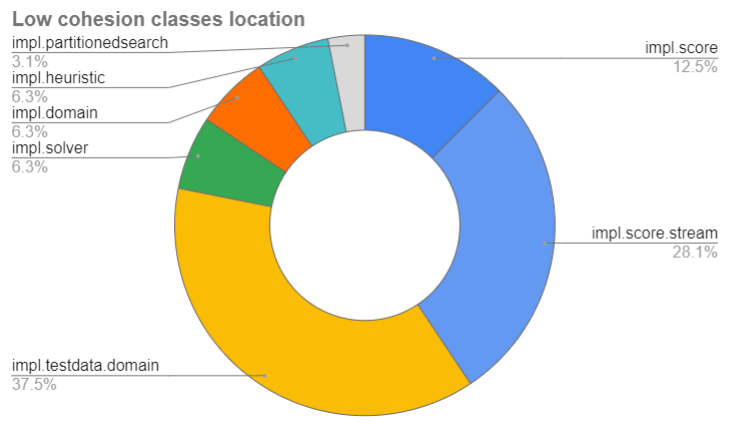
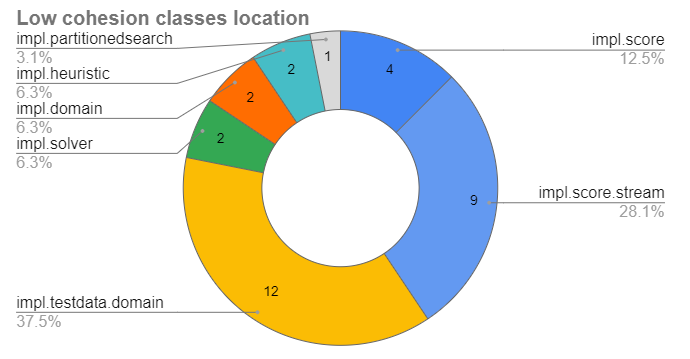
Final version of the Maintanance report of OptaPlanner

diff --git a/steps/step3.tex b/steps/step3.tex
@@ -60,8 +60,14 @@ $ mvn sonar:sonar
                         The difference in size between those three packages was to be expected, since the biggest folder contains all the implementation details of the algorithms, while the other two are only concerned with the interfaces to the implementation.\\
                         In this package, the file with the most LOCs has 1048, and can be found at: \\ 
                         \cb{core/impl/domain/solution/descriptor/SolutionDescriptor.java}. \\
-                        This number is very high, making this a very long class compared to the rest of the project, where most files have under 200 LOCs.
-                        
+                        This number is very high, making this a very long class compared to the rest of the project, where most files have under 200 LOCs.\\\\
+                        An overview of the LOC in the \cb{core} folder can be seen in Figure \ref{fig:loccore}
+                        \begin{figure}[H]
+                            \centering
+                            \includegraphics[scale=0.6]{figures/step3/locfiles.PNG}
+                            \caption{LOC in \cb{core}}
+                            \label{fig:loccore}
+                        \end{figure}
                         \item[-] The second biggest package is 
                         \cb{optaplanner-examples} with 41,450 LOCs; out of the 22 examples, the Conference Scheduling
                         \footnote{\url{https://docs.optaplanner.org/7.32.0.Final/optaplanner-docs/html\_single/index.html\#conferenceScheduling}}
@@ -81,7 +87,6 @@ $ mvn sonar:sonar
                     The most classes are contained in the same package, with a total of 861, with the \cb{impl} folder containing 674, \cb{api} with 116 and \cb{config} with 71. \\
                     Most of the files in the project contain one class, indicating a good design since having too many classes declared in a single file could be a potential code smell (more about this later on). However, one folder stood out where most files contained 2 or 3 classes. In the following folder
                     \\ \cb{core/impl/domain/valuerange/buildin/composite/}, most files contain more than one class. This is due to the fact that the developers needed a way to enrich the basic types in Java with extra information, and created their own Object types from the standard ones. 
-                    \textcolor{red}{TODO maybe add a graph for this folder}
                     \\ For example, the file \cb{core/impl/domain/valuerange/buildin/primint/IntValueRange.java} contains three classes used to iterate through the elements in a specific interval of integer values. 
                 \item \textbf{Comment lines}\\
                     The \cb{optaplanner-core} package contains 8,007 comment lines, taking up 13.2\% of the total size of the code. Unlike the other metrics mentioned above, the component with the most comments is the \cb{api} one, with 4,303, followed by \cb{impl}. This is due to the fact that the APIs are the interfaces that connect the implementation of the software with the 'outside world'. They are the point of communication for the other developers, and as such, need to be properly explained and documented so that they can be understood by the developers who do not know about the inner workings of the system. Having well documented and commented APIs is a great advantage and helps a lot with our key drivers of Maintainability and Integrability, since they allow the system to be easily used, maintained and integrated without having to first study the code or the implementation that lies within.
@@ -89,7 +94,6 @@ $ mvn sonar:sonar
             From the size analysis, it is quite clear that the biggest folder is \cb{optaplanner-core/impl}, which contains the most LOC, most functions and statements and the most files. This was to be expected, since this folder contains the implementation details of the software, thus the implementation of the algorithms that are the foundation of the project. The fact that the developers have implemented these complex algorithms themselves explains the big size of the folder; moreover, they focused also on optimization and performance, so the algorithms can be tweaked and adapted to a high number of situations. As such, a lot of work in terms of LOC needed to be done to achieve this.
         
         \subsubsection{Complexity}
-            \textcolor{red}{TODO: Graph}
             SonarQube can, according to the documentation, analyse two types of complexity metrics: 
             \begin{itemize}
                 \item \textbf{Cyclomatic complexity} \\
@@ -97,9 +101,23 @@ $ mvn sonar:sonar
                 By further exploring the package, we have come across the following scores:
                 \begin{itemize}
                     \item[-] The \cb{impl} folder is the most complex, with a score of almost 7000. Again, this is expected, since this component is the biggest and the most important for the project. 
-                    \item[-] The complexity of the other two packages is 1483 for \cb{api} and 1855 for \cb{config}. 
+                    \item[-] The complexity of the other two packages is 1483 for \cb{api} and 1855 for \cb{config}.\\
+                    An overview of the three folders together with their complexities can be seen in Figure \ref{fig:corecyclomatic}
+                    \begin{figure}[H]
+                        \centering
+                        \includegraphics{figures/step3/cyclomaticcomplexitycore.PNG}
+                        \caption{Total cyclomatic complexity of the folders in \cb{core}}
+                        \label{fig:corecyclomatic}
+                    \end{figure}
                     \item[-] In the \cb{impl} folder, the package with the highest complexity is \cb{score}, with a complexity of 2801. This component helps give a score (weight) to a computed solution, and the complexity of this task comes from the big number of constraints that need to be satisfied when solving a problem, and how well the solution fits the constraints. At the same time, the score needs to keep track at all times of the domain of the problem, the heuristics, the type of search that is being used, and so on. In order to do this, it makes use of other components to compute the score, making it highly complex.
                     \item[-] The next two most complex folders are \cb{heuristic} - 1566 and \cb{domain} - 1382. These two are components that the algorithms need in order to find an optimal solution, and they hold the information that is fed into the algorithms, as well as the details about how the algorithms should behave (what kind of search heuristic should be used, for example). Since these two components are crucial to the software, it was expected that they were also fairly complex. 
+                    \item An overview of the components inside the \cb{core.impl} folder and their complexities can be seen in Figure
+                    \begin{figure}[H]
+                        \centering
+                        \includegraphics{figures/step3/cyclomaticcomplexityimpl.PNG}
+                        \caption{Total cyclomatic complexity of the folders in \cb{core.impl}}
+                        \label{fig:my_label}
+                    \end{figure}
                 \end{itemize}
                 
                 \item \textbf{Cognitive complexity}\\
@@ -110,7 +128,23 @@ $ mvn sonar:sonar
                     
                     \item[-] The \cb{api} folder has a given complexity score of 608, the lowest of the three. This is also a good sign, since, mentioned before, this folder contains the interfaces that other parties can use in order to interact with the software. It should be as simple and as intuitive as possible, well documented and commented, to make the reuse of the other underlying code as easy and as fast as possible. The low complexity of these files could also positively influence maintainability. 
                     
+                    \item[-] An overview of the complexity of the three folders can be seen in Figure \ref{fig:cognitivecomplexitycore}
+                    \begin{figure}[H]
+                        \centering
+                        \includegraphics[scale=0.8]{figures/step3/cognitivcomplexitycore.PNG}
+                        \caption{Cognitive complexity in \cb{core}}
+                        \label{fig:cognitivecomplexitycore}
+                    \end{figure}
+                    
                     \item[-] Inside the \cb{impl} folder, the most complex components are \cb{domain}, \cb{heuristic} and \cb{score}. These are the same folders that also had a high cyclomatic complexity, and it was to be expected that they were also the most cognitively complex, with a score of around 1000 each. The same reasoning as before can be applied for this complexity as well.
+                    
+                    \item[-] An overview of the components inside the \cb{core.impl} folder can be seen in Figure \ref{cognitivecomplexityimpl}
+                    \begin{figure}[H]
+                        \centering
+                        \includegraphics[scale=0.8]{figures/step3/cognitivecomplexityimpl.PNG}
+                        \caption{Cognitive complexity in \cb{core.impl}}
+                        \label{fig:cognitivecomplexityimpl}
+                    \end{figure}
                      
                 \end{itemize}
                 
@@ -134,7 +168,6 @@ $ mvn sonar:sonar
             \end{figure}
             
             From the figure, we find the following: 
-            \textcolor{red}{TODO: Maybe explain this a bit more he wants to see this}
             \begin{itemize}
                 \item[-] There is a high number of duplicated LOC in two big files. They both have 169 duplicated LOC contained in 6 blocks. Those two classes are: 
                 \begin{enumerate}
@@ -151,11 +184,23 @@ $ mvn sonar:sonar
             However, the project that we chose has a rather low number of duplicated lines, given its size and the complexity.
          
         \subsubsection{Code Smells}
-            \textcolor{red}{TODO: Graphs}\\
             By definition, code smells are characteristics of the code that could possibly indicate a deeper problem. Sometimes, the smells can be rather superficial and only surface issues, such as a variable not following the given naming convention. But other times, code smells can also indicate deeper issues, such as classes that are overly complex or are badly designed. As such, finding these code smells, analysing them and trying to solve them is a good way to ensure that the code is more maintainable and, by solving them early, we could prevent them from evolving into actual bugs. 
             \\ \\
-            According to SonarQube, the project has 3,420 total smells, out of which 2,313 are in the \cb{optaplanner-core} package. In total, the accumulated debt of the project is 96 days (meaning that it would take one developer 96 days to fix all of the code smells). However, the debt ratio is very low - only 1.5\%, and because of this, the rating of the project with regards to Maintainability is A.\\
-            We expected that, in the \cb{core} package, the \cb{impl} folder should have the most code smells, due to the nature of the code inside this folder, as well as the complexity which we have discussed previously. And indeed, the folder has 1532 code smells, three times as much as each of the other two folders. \\\\
+            According to SonarQube, the project has 3,420 total smells, out of which 2,313 are in the \cb{optaplanner-core} package. In total, the accumulated debt of the project is 96 days (meaning that it would take one developer 96 days to fix all of the code smells). However, the debt ratio is very low - only 1.5\%, and because of this, the rating of the project with regards to Maintainability is A. An overview of the distribution of the code smells in the \cb{core} package's three main folders can be seen in Figure \ref{fig:numberofcodesmells}.
+            \begin{figure}[H]
+                \centering
+                \includegraphics{figures/step4/step4.2/numberofcodesmells.PNG}
+                \caption{Distribution of code smells in the \cb{core} package}
+                \label{fig:numberofcodesmells}
+            \end{figure}
+            We expected that, in the \cb{core} package, the \cb{impl} folder should have the most code smells, due to the nature of the code inside this folder, as well as the complexity which we have discussed previously. And indeed, the folder has 1532 code smells, three times as much as each of the other two folders. 
+            An overview of the distribution of code smells inside the \cb{core.impl} folder can be seen in Figure \ref{fig:codesmellimpl}.
+            \begin{figure}[H]
+                \centering
+                \includegraphics[scale=0.8]{figures/step4/codesmellsimpl.PNG}
+                \caption{Caption}
+                \label{fig:codesmellimpl}
+            \end{figure}
             When analysing the code smells and further investigating what they are and where they occur, we have found the following: 
             \begin{itemize}
                 \item The first smell that we have come across was the fact that a generic variable contained an unexpected character. When looking through the project, we observed that the developers hold a certain convention when typing generics, namely using the character \cb{$\_$} at the end of a variable, like so: \cb{variable$\_$}. This has been picked up by SonarQube as a code smell, and it is quite present everywhere in the project where generics are declared or used. Figure \ref{fig:smell4} gives an example of such an occurrence: 
@@ -201,6 +246,41 @@ $ mvn sonar:sonar
                     \label{fig:smell5}
                 \end{figure}
             \end{itemize}
+            
+        \subsubsection{Bugs}
+            Despite the high number of code smells in the codebase, we have found that there are very few bugs for a project of this size. In total, the project only has 46 bugs.
+            \begin{enumerate}
+                \item \textbf{Critical bugs}\\
+                In the whole project there was only one critical bug - a division by 0 which was not entirely checked. The tool was very good in capturing this bug. The piece of code responsible can be seen in Figure \ref{fig:criticalbug}. The estimated time required to solve this bug is approximately 5 minutes - so the developers should have this as a very high priority on the TODO list.
+                \begin{figure}[H]
+                    \centering
+                    \includegraphics[scale=0.8]{figures/criticalbug.JPG}
+                    \caption{The only critical bug found in the whole project.}
+                    \label{fig:criticalbug}
+                \end{figure}
+                
+                \item \textbf{Major bugs}\\
+                In total, there were 13 major bugs in the project. Six of them can be found in the class: \cb{core/api/score/stream/Joiners.java}, and they are all concerned with the same bug: the developers gave a method a reserved name without mentioning if it is an override - and this can cause unexpected behavior. An example of such an occurrence can be seen in Figure \ref{fig:majorbug}. The rest of the major bugs were of similar nature.
+                \begin{figure}[H]
+                    \centering
+                    \includegraphics[scale=0.8]{figures/majorbug.JPG}
+                    \caption{An example of a major bug}
+                    \label{fig:majorbug}
+                \end{figure}
+                
+                \item \textbf{Minor bugs}\\
+                The project had a total of 32 minor bugs. The class with the most bugs had 6, and they were all concerned with the missing typecasting of variables when performing arithmetical operations. Two such examples can be seen in Figure \ref{fig:minorbugs}.
+                \begin{figure}[H]
+                    \centering
+                    \includegraphics[scale=0.8]{figures/minorbug.JPG}
+                    \caption{Example of a minor bug}
+                    \includegraphics[scale=0.8]{figures/minorbug2.JPG}
+                    \caption{Examples of minor bug}
+                    \label{fig:minorbugs}
+                \end{figure}
+            \end{enumerate}
+            
+            As mentioned before, we believe that the severity of these bugs together with the relatively low number indicate a very good code quality and that the developers should strive to continuously maintain the project in order to adhere to the same high standards.
         
         \subsubsection{Coverage}
             According to the tool, our analysed software has 0\% coverage, meaning that there are no unit tests whatsoever and that none of the classes/modules/methods are tested. Investigating why this could happen, we have come up with the following possible reasons:

diff --git a/steps/step4subsection/step4.2.tex b/steps/step4subsection/step4.2.tex
@@ -1,23 +1,82 @@
 \subsection{Coupling between components}
-            According to the definition
-            \footnote{Coupling definition: \cb{
-            \url{https://en.wikipedia.org/wiki/Coupling\_(computer\_programming)}}}:
-            \begin{adjustwidth}{1.5cm}{}
-                \textit{coupling is the degree of interdependence between software modules; a measure of how closely connected two routines or modules are; the strength of the relationships between modules.}
-            \end{adjustwidth}
-            Tight coupling in a software system can be associated with more interdependency between components, more coordination and more information flow; on the other hand, low coupling can be associated with less interdependency, coordination and information flow. \\
-            Tightly coupled systems can have the following characteristics, often seen as disadvantages:
-            \begin{enumerate}
-                \item A change in one module can cause a ripple effect of changes in other modules 
-                \item Assembly of modules will take considerably longer time thanks to the increased interdependency between them and the high flow of information
-                \item Using a single module as a standalone might be difficult due to other modules also being needed.
-            \end{enumerate}
-            Looking at these characteristics, we can motivate the general idea that good design usually is related to loose coupling in the system.\\\\
-            In order to analyze the design quality of the system, we have to analyze the coupling between its components. As such, we will make use of two metrics, namely \texttt{FANIN} and \texttt{FANOUT}. These two metrics were borrowed from logic circuit design, and they represent the number of occurrences of a class (how many times a class is being called) and the number of classes a certain class calls in its definition. They can be used to indicate the extent to which a component is independent, as well as how much responsibility is has.\\
-            When describing packages, we can talk about two types of coupling:
-            \begin{enumerate}
-                \item \textbf{Afferent coupling AC}\\
-                The number of packages that depend upon classes in a certain package. It indicates the package's responsibility.
-                \item \textbf{Efferent coupling EC}\\
-                The number of packages that the classes in a package depend upon. It indicates the package's independence.
-            \end{enumerate}
+    According to the definition
+    \footnote{Coupling definition: \cb{
+    \url{https://en.wikipedia.org/wiki/Coupling\_(computer\_programming)}}}:
+    \begin{adjustwidth}{1.5cm}{}
+        \textit{Coupling is the degree of interdependence between software modules; a measure of how closely connected two routines or modules are; the strength of the relationships between modules.}\\
+    \end{adjustwidth}
+    Tight coupling in a software system can be associated with more interdependency between components, more coordination and more information flow; on the other hand, low coupling can be associated with less interdependency, coordination and information flow. \\
+    Tightly coupled systems can have the following characteristics, often seen as disadvantages:
+    \begin{enumerate}
+        \item A change in one module can cause a ripple effect of changes in other modules 
+        \item Assembly of modules will take considerably longer time thanks to the increased interdependency between them and the high flow of information
+        \item Using a single module as a standalone might be difficult due to other modules also being needed.
+    \end{enumerate}
+    Looking at these characteristics, we can motivate the general idea that good design usually is related to loose coupling in the system.\\\\
+    In order to analyze the design quality of the system, we have to analyze the coupling between its components. As such, we will make use of two metrics, namely \texttt{FANIN} and \texttt{FANOUT}. These two metrics were borrowed from logic circuit design, and they represent the number of occurrences of a class (how many times a class is being called) and the number of classes a certain class calls in its definition. They can be used to indicate the extent to which a component is independent, as well as how much responsibility it has. Ideally, in a low coupled system, these two metrics should be as low as possible. 
+    \\\\
+    When describing packages, we can talk about two types of coupling:
+    \begin{enumerate}
+        \item \textbf{Afferent coupling AC}\\
+        The number of packages that depend upon classes in a certain package. It indicates the package's responsibility.
+        \item \textbf{Efferent coupling EC}\\
+        The number of packages that the classes in a package depend upon. It indicates the package's independence.
+    \end{enumerate}
+    The following section will document our findings of the FANIN and FANOUT metrics on the \cb{optaplanner-core} package.
+    
+    \begin{itemize}
+        \item The \cb{api} folder\\
+        Looking at the metrics that Designite found for this folder, we found that there are two classes with a very high FANIN value: 149 and 147 - which means that there are as many classes that make use of each of them. The high FANIN value implies a very high dependence of the system on these classes, making them potential candidates for the "God element" code smell. Both of the classes have the \cb{score} as concern, and this is expected since the system's main functionality revolves around the score of the algorithms. Not only that, but 6 out of the 10 classes with the highest FANIN values are in the same package: \cb{api.score}. An overview of the 10 highest FANIN values can be seen in Figure \ref{fig:faninapi}.
+        \begin{figure}[H]
+            \includegraphics[scale=0.8]{figures/step4/step4.2/FANIN_api.PNG}
+            \caption{The classes with the highest FANIN value in the \cb{api} folder}
+            \label{fig:faninapi}
+        \end{figure}
+        When analysing the FANOUT value, we have found that in this folder, most of the files with a high FANOUT value are test files for the \cb{score} package, which is again expected considering that this package is very important for the functionality of the system. An overview of the 10 highest FANOUT values can be seen in Figure \ref{fig:fanoutapi}. The highest values were 16 and 15 - but again these can be justified by the fact that in test files, a lot of classes must be instantiated and initialized in order to perform realistic tests. 
+        \begin{figure}[H]
+            \centering
+            \includegraphics[scale=0.8]{figures/step4/step4.2/FANOUT_api.PNG}
+            \caption{The classes with the highest FANOUT value in the \cb{api} folder}
+            \label{fig:fanoutapi}
+        \end{figure}
+        
+        
+        \item The \cb{config} folder\\
+        The most dependable file in this folder is a \cb{utils} file, namely  \cb{config.util.ConfigUtils}. Since such a file contains utility specifications that are useful for the whole system, it is expected that a lot of classes rely on it and use it - in order to avoid duplicate code, and also, to have all the configurations centralised in order to keep maintainability high. \\
+        The second most dependable class is a configuration file for the solvers - this can be explained by the fact that the system has a lot of possible \cb{solver} instances that can be used with different configurations. As such, this \cb{SolverConfig} file can be used to keep the configurations centralised. \\
+        An overview of the most dependable files (highest FANIN values) can be seen in Figure \ref{fig:faninconfig}
+        \begin{figure}[H]
+            \centering
+            \includegraphics[scale=0.8]{figures/step4/step4.2/FANIN_config.PNG}
+            \caption{The classes with the highest FANIN value in the \cb{config} folder}
+            \label{fig:faninconfig}
+        \end{figure}
+        
+        FANOUT represents the responsibility of a file, so how many other files it is responsible for. In this folder, the files with the most responsibilities are configuration files for the \cb{Solver} class, or for the classes that are concerned with the configuration of the search algorithms. The high responsibilities of these classes can be due to the fact that their functionalities are the most complex and they require a lot of information in order to set them up correctly.
+        An overview of the most dependable files (highest FANOUT values) can be seen in Figure \ref{fig:fanoutconfig}
+        \begin{figure}[H]
+            \centering
+            \includegraphics[scale=0.8]{figures/step4/step4.2/FANOUT_config.PNG}
+            \caption{The classes with the highest FANOUT value in the \cb{config} folder}
+            \label{fig:fanoutconfig}
+        \end{figure}
+        
+        
+        \item The \cb{impl} folder\\
+        From the previous analyses, we know that this folder is the biggest and most complex. As such, we also expect it to be the most dependable and having a lot of responsibilities. Since there were a lot of classes with a high FANIN value, we have included the top 15 of them in our analysis, as they can be seen in Figure \ref{fig:faninimpl}. The most dependable class has a very high FANIN score, 163. It is also the class that we have previously found as the biggest, in terms of LOC and complexity. It is the \cb{SolutionDescriptor} class, and it is the most dependable file in the whole system. This high dependence on this file can be explained by the fact that the system provides a lot of ways of describing solutions to a lot of different problems, and this file has the classes that are instantiated the most. \\
+        The second dependable file is \cb{ScoreDirector}, again a very big, complex file, and it is being used to calculate the scores of the different solutions - which we expect to be the argument for the high dependency value, since this class is oftenly used with the \cb{SolutionDescriptor.} \\
+        An overview of the top 15 highest FANIN values can be seen in Figure \ref{fig:faninimpl}.
+        \begin{figure}[H]
+            \centering
+            \includegraphics[scale=0.8]{figures/step4/step4.2/FANIN_impl.PNG}
+            \caption{The classes with the highest FANIN value in the \cb{impl} folder}
+            \label{fig:faninimpl}
+        \end{figure}
+        \cb{SolutionDescriptor} was found to also be the file with the most responsibility, with a FANOUT value of 34 - meaning that it is responsible for 34 other classes. The arguments are similar to the ones mentioned above. The rest of the files with high FANOUT values in this location are again test classes, or concerned with the score of an algorithm. An overview of the top 10 highest FANOUT values can be seen in Figure \ref{fig:fanoutimpl}.
+        \begin{figure}[H]
+            \centering
+            \includegraphics[scale=0.8]{figures/step4/step4.2/FANOUT_impl.PNG}
+            \caption{The classes with the highest FANOUT value in the \cb{impl} folder}
+            \label{fig:fanoutimpl}
+        \end{figure}
+    \end{itemize}

diff --git a/steps/step4.tex b/steps/step4.tex
@@ -95,7 +95,7 @@ java -jar DesigniteJava.jar -i optaplanner -o designite-output   \end{lstlisting
                 \caption{Distribution of classes with a high LCOM score value in the \cb{optaplanner-core/impl} folder}
                 \label{fig:lowcohesion}
             \end{figure}
-            From this figure, we can see that the two locations \cb{impl.score} and \cb{impl.testdata.domain} contain the most classes that have a low cohesion (13 and 12 respectively) and should therefore be the first candidates to refactor, in order to increase the cohesion of the system. Inside these two folders, there were 8 classes whose LCOM score was 1 - meaning that they are totally non-cohesive, and that are difficult to maintain and they also add to the technical debt of the project. Outside these two locations, there were 3 other classes with an LCOM score of 1. The classes can be found at the following locations:                    \todo{mention here if these classes were already mentioned before?}
+            From this figure, we can see that the two locations \cb{impl.score} and \cb{impl.testdata.domain} contain the most classes that have a low cohesion (13 and 12 respectively) and should therefore be the first candidates to refactor, in order to increase the cohesion of the system. Inside these two folders, there were 8 classes whose LCOM score was 1 - meaning that they are totally non-cohesive, and that are difficult to maintain and they also add to the technical debt of the project. Outside these two locations, there were 3 other classes with an LCOM score of 1. The classes can be found at the following locations:              
             \begin{itemize}
                 \item \cb{org.optaplanner.core.impl.partitionedsearch.TestdataFaultyEntity.java}
                 \item \cb{org.optaplanner.core.impl.domain.common.accessor.MemberAccessorFactory.java}
@@ -174,4 +174,4 @@ java -jar DesigniteJava.jar -i optaplanner -o designite-output   \end{lstlisting
             A reason why this smell could occur is that the members of one abstractions are misplaced in a different abstraction, making the first one depend on the second and thus resulting in a cyclic dependency. Another reason could be that a class passes a self reference in a method call (for example, using \texttt{doSomething(this)}. \\\\
             The way to solve this design smell is by breaking the dependency cycle. One possible solution could be to introduce an interface for one of the abstractions in the cycle. Another possible solution would be to move the code that introduces the dependency to a different abstraction. Or, if possible, to merge the abstractions that are cyclically dependent into a single one.
         \end{itemize}
-    \subsection{Code, design and architectural smells}
+ 

diff --git a/conclusion.tex b/conclusion.tex
@@ -1,0 +1,8 @@
+\clearpage
+\section{Conclusion}
+In conclusion, this document presents our study on the software system called OptaPlanner, a constraint problem-solver, which can also be used to solve user-defined problems. Our study consisted of four steps; in step 1 we conducted a top-down introductory analysis on the software by retracting as much information as possible from the documentation guides and online information. Based on that information we compiled a list of quality attributes which we used to define some architecturally significant requirements and initial hypotheses on the architecture components of the system. \\\\
+In step 2 we focused on a more thorough analysis using the bottom-up model; we start from the code-base and work our way through the whole system. In order to gain as much insight as possible, we used software tools like the IntelliJ IDE and Structure 101. At the end of this step, we had discerned the main architectural components of the system and the entities that comprised them. We had also established several relationships between the components which we have tackled carefully in the previous sections.\\\\
+Once we established a good outlook on the software at hand, in step 3 we focused on the quality of its source code, and more specifically, the architectural components with a focus on code smells, code duplication, complexity and more. 
+The Sonarqube tool was used for this purpose.\\\\
+Finally, in step 4, we focused on the design quality of the software system and its architecture, with a special focus on the design differences among the main architectural components. More specifically, we analysed the possible design decisions that the OptaPlanner team has taken throughout its development. The tools that were used throughout this step were Structure 101 and Designite.\\\\
+At the end of this project, we have learned how to approach working with a new software system and eventually, be able to maintain it consistently. We learned that the best approach is to work incrementally, starting with a top-down model where we try to gather as much high-level information as possible, and then proceeding with the source-code. We noted that a combination of both models, top-down and bottom-up proved most helpful in analyzing the source-code. Nonetheless, we also learned that smart design decisions can prove very helpful not only in the development process of a software system but also after it has been delivered and it is ready for use. As important as it is for the end-users of the software system to work with a good product, it is as important that the system is maintained continuously. This will render the system future-proof and it will pave the way for future software engineers that will have to work on the system.

diff --git a/analysis.tex b/analysis.tex
@@ -16,6 +16,8 @@ From the outset, it was rather clear to us that there were three key components:
 \end{enumerate}
 Nonetheless, we believe that we were able to grasp a fair (intermediate) understanding of the system, its goals and its most important classes.
 \subsection{Step 3}
-    \textcolor{red}{TODO}
+    The third step was concerned with the analysis of the code quality. When analysing code quality, one will usually start by looking for defects - and the more defects one can find, the lower the overall quality of the project. As such, we had to look for the code smells in the project, analyse them and paint the overall picture of the project in terms of defects. In order to do so, we have used the tool called SonarQube to extract all aspects of the code that lowered the overall quality.\\
+    Since OptaPlanner is a well maintained, continuously improved project, we did not expect to encounter a high amount of problems. This section will document all of our findings.
 \subsection{Step 4}
-    \textcolor{red}{TODO}
+    In the last step, we will analyze the design quality of the project. We will look for all the design smells of the project. Design smells are structures that violate fundamental design principles and negatively impact the design quality of a project - they are different from code smells, which are focused at a more granular level in the code.\\
+    In order to perform our analysis, we will use Designite - a tool for design quality assessment. Our expectancy is not to find very big problems or critical issues in the project, however, a thorough analysis is required in order to prove this.

diff --git a/main.tex b/main.tex
@@ -101,17 +101,18 @@ Evi Xhelo S3202267
 \vfill
 \end{titlepage}
 %%%%%%%%%%% COMMENTED OUT TO MAKE IT BUILD FASTER
-% \maketitle
-% \input{introduction.tex}
-% \input{analysis.tex}
-% \input{steps/step1.tex}
-% \input{steps/step2/first_parts.tex}
-% \input{steps/step2/components.tex}
-% \input{steps/step2/dependencies.tex}
-% \input{steps/step2/last-part.tex}
-% \input{steps/step2/suggestions.tex}
+\maketitle
+\input{introduction.tex}
+\input{analysis.tex}
+\input{steps/step1.tex}
+\input{steps/step2/first_parts.tex}
+\input{steps/step2/components.tex}
+\input{steps/step2/dependencies.tex}
+\input{steps/step2/last-part.tex}
+\input{steps/step2/suggestions.tex}
 \input{steps/step3.tex}
 \input{steps/step4.tex}
+\input{conclusion.tex}
 
 \clearpage
 \input{appendix.tex}
